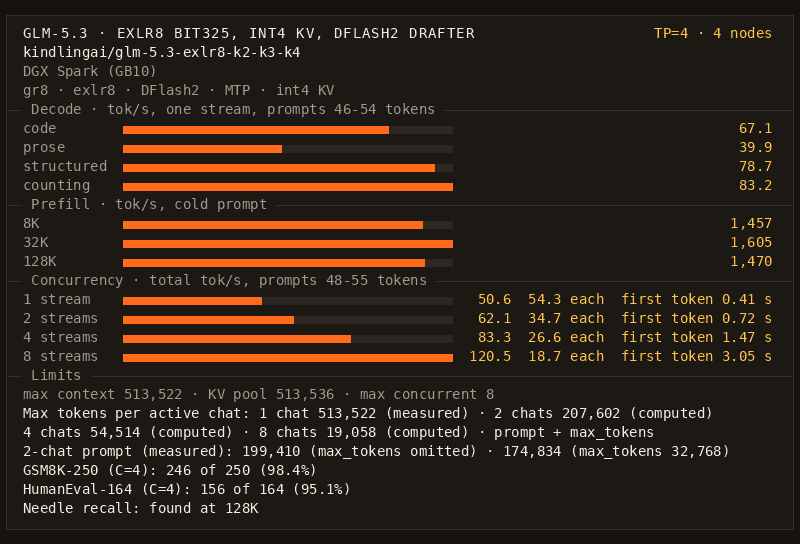
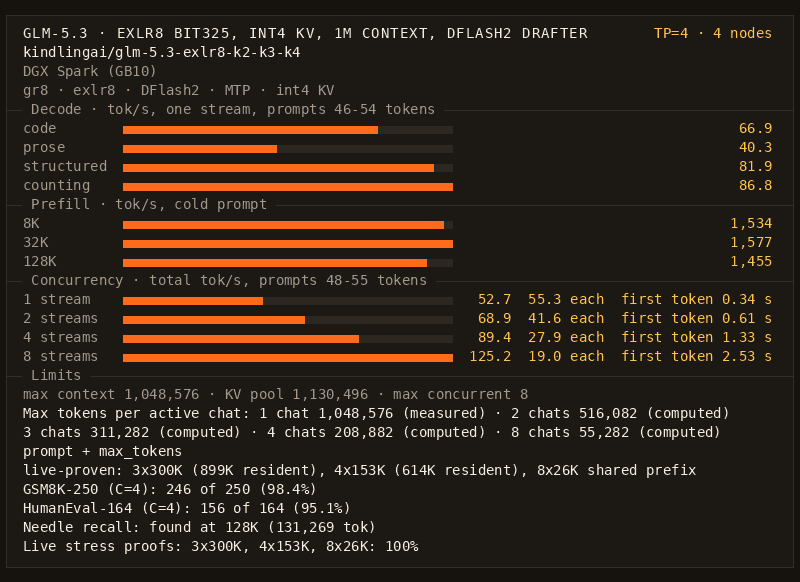
docs(readme): update GLM-5.3 4x Spark card and summary to 1M context recipe

diff --git a/README.md b/README.md
@@ -62,11 +62,12 @@ concurrent · one boot on `gr8 v1.1.1`, measured 2026-11-21.
 
 [![GLM-5.3 on four DGX Sparks: decode, prefill and concurrency](docs/cards/glm-5.3-exlr8-4x-spark.png)](https://github.com/kindlingai/recipes/tree/main/glm-5.3/dgx-spark/4x/exlr8-gr8)
 
-67.1 tok/s for one request writing code (73.2 tok/s with `MOE_UNION_CAP=32`) · 1,605 tok/s prefill on a 32K prompt
-(1,470 tok/s at 128K) · 8 requests at once (`SESS=8`), 120.5 tok/s in total (139.0 tok/s with `MOE_UNION_CAP=32`) ·
-int4 KV default: 513,536-token KV pool, 13.53 GiB lowest `MemAvailable` across boxes · GSM8K-250 246/250, HumanEval-164
-156/164, a fact hidden in a 128K prompt found · one boot on `gr8 v1.1.0`, measured 2026-11-20 · the same recipe serves
-three to six boxes.
+66.9 tok/s for one request writing code (74.6 tok/s with `MOE_UNION_CAP=32`) · 1,577 tok/s prefill on a 32K prompt
+(1,455 tok/s at 128K) · 8 requests at once (`SESS=8`), 125.2 tok/s in total (149.1 tok/s with `MOE_UNION_CAP=32`) ·
+`bit325` (3.25 bpw) experts, int4 KV: 1,130,496-token KV pool (`1,048,576` max context), 5.39 GiB lowest `MemAvailable`
+across boxes · GSM8K-250 246/250 (98.4%), HumanEval-164 156/164 (95.1%), a fact hidden in a 128K prompt found,
+live-proven at 3×300K, 4×153K, and 8×26K shared prefix · one boot on `gr8 v1.1.0`, measured 2026-11-20 · the same
+recipe serves three to six boxes.
 
 **[Recipe](https://github.com/kindlingai/recipes/tree/main/glm-5.3/dgx-spark/4x/exlr8-gr8)** · [Model page](docs/GLM-5.3.md)
 
